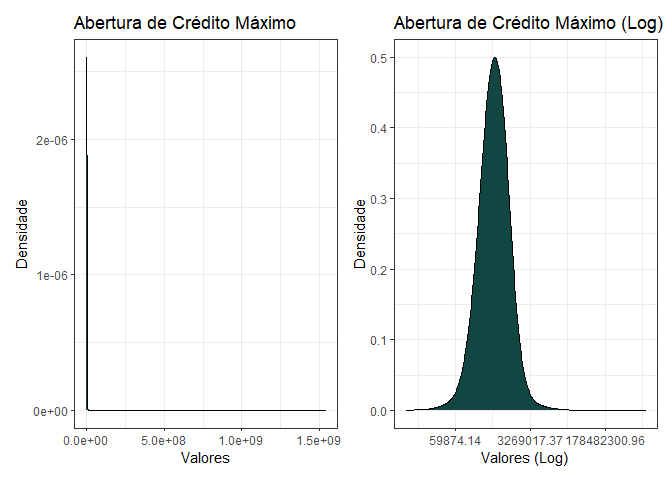
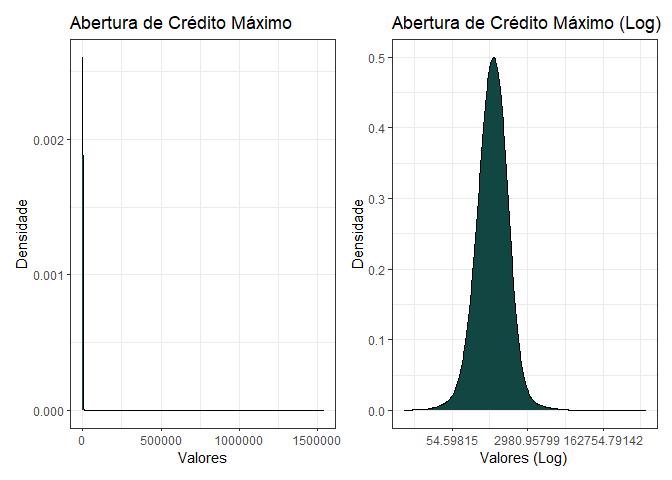
credito

diff --git a/README.html b/README.html
@@ -190,7 +190,8 @@ pre code {
 library(tidyverse)
 library(questionr)
 library(knitr)
-library(patchwork)</code></pre>
+library(patchwork)
+library(plotly)</code></pre>
 </div>
 <div id="estabelecendo-conexão-com-o-banco-de-dados-sql-server-2017-para-extraçãoleitura-dos-dados." class="section level5">
 <h5>Estabelecendo conexão com o banco de dados SQL Server 2017, para extração/leitura dos dados.</h5>
@@ -312,8 +313,8 @@ freq.na(df_bank_train)
 <div id="obs.-bankruptcies-falência" class="section level6">
 <h6>204 obs. bankruptcies (falência)</h6>
 </div>
-<div id="obs.-tax_liens-linhas-de-impostos" class="section level6">
-<h6>10 obs. tax_liens (linhas de impostos)</h6>
+<div id="obs.-tax_liens-registro-de-automóveis" class="section level6">
+<h6>10 obs. tax_liens (registro de automóveis)</h6>
 </div>
 <div id="obs.-maximum_open_credit-abertura-máxima-de-crédito" class="section level6">
 <h6>2 obs. maximum_open_credit (abertura máxima de crédito)</h6>
@@ -376,7 +377,65 @@ freq.na(df_bank_train)
 </div>
 <div id="o-gráfico-abaixo-mostra-a-curva-de-densidade-da-váriavel-e-de-um-possível-ajuste-dos-dados." class="section level5">
 <h5>O gráfico abaixo mostra a curva de densidade da váriavel e de um possível ajuste dos dados.</h5>
[2 lines of base64/hex data omitted]
+<pre class="r"><code>  df_bank_train$maximum_open_credit &lt;- df_bank_train$maximum_open_credit %&gt;% 
+  coalesce(median(df_bank_train$maximum_open_credit, na.rm = TRUE))</code></pre>
+</div>
+<div id="obs.-tax_liens-registro-de-automóveis-1" class="section level5">
+<h5>10 obs. tax_liens (registro de automóveis)</h5>
+<div id="a-distribuição-da-variável-com-relação-a-variável-resposta-nos-níveis-da-tax_liens-não-sofre-tanta-alteração-e-o-número-de-observações-é-baixo.-as-observações-faltantes-estão-todas-no-grupo-fully-paid." class="section level6">
+<h6>A distribuição da variável com relação a variável resposta nos níveis da tax_liens não sofre tanta alteração e o número de observações é baixo. As observações faltantes estão todas no grupo ‘Fully Paid’.</h6>
+</div>
+<div id="optei-por-substituir-as-variáveis-faltantes-pelo-maior-grupo-da-tax_liens-0." class="section level6">
+<h6>Optei por substituir as variáveis faltantes pelo maior grupo da ‘tax_liens’ 0.</h6>
+<pre class="r"><code>df_bank_train %&gt;%
+  group_by(tax_liens, loan_status) %&gt;%
+  summarise(qnt = n()) %&gt;%
+  complete(tax_liens, fill = list(n = 0)) %&gt;%
+  group_by(tax_liens) %&gt;%
+  mutate(freq = paste(round(qnt / sum(qnt),4)*100,&#39;%&#39;))
+#&gt; `summarise()` has grouped output by &#39;tax_liens&#39;. You can override using the `.groups` argument.
+#&gt; # A tibble: 22 x 4
+#&gt; # Groups:   tax_liens [13]
+#&gt;    tax_liens loan_status   qnt freq   
+#&gt;        &lt;dbl&gt; &lt;chr&gt;       &lt;int&gt; &lt;chr&gt;  
+#&gt;  1         0 Charged Off 22150 22.59 %
+#&gt;  2         0 Fully Paid  75912 77.41 %
+#&gt;  3         1 Charged Off   330 24.57 %
+#&gt;  4         1 Fully Paid   1013 75.43 %
+#&gt;  5         2 Charged Off    90 24.06 %
+#&gt;  6         2 Fully Paid    284 75.94 %
+#&gt;  7         3 Charged Off    36 32.43 %
+#&gt;  8         3 Fully Paid     75 67.57 %
+#&gt;  9         4 Charged Off    21 36.21 %
+#&gt; 10         4 Fully Paid     37 63.79 %
+#&gt; # ... with 12 more rows
+
+
+df_bank_train$tax_liens &lt;- df_bank_train$tax_liens %&gt;% 
+  coalesce(0)</code></pre>
+</div>
+</div>
+<div id="credit_score-score-de-crédito-1" class="section level5">
+<h5>19% credit_score (score de crédito)</h5>
+</div>
+<div id="annual_income-renda-anual-1" class="section level5">
+<h5>19% annual_income (renda anual)</h5>
+<div id="as-variáveis-que-estão-faltando-em-score-de-crédito-também-estão-faltando-na-coluna-de-renda-anual." class="section level6">
+<h6>As variáveis que estão faltando em score de crédito também estão faltando na coluna de renda anual.</h6>
+<pre class="r"><code>df_bank_train %&gt;% 
+  filter(is.na(credit_score)) %&gt;% 
+  select(credit_score, annual_income) %&gt;% 
+  drop_na(credit_score, annual_income)
+#&gt; [1] credit_score  annual_income
+#&gt; &lt;0 linhas&gt; (ou row.names de comprimento 0)</code></pre>
+</div>
+</div>
+<div id="inspecionando-a-variável-score-de-crédito" class="section level5">
+<h5>Inspecionando a variável (score de crédito)</h5>
+<pre class="r"><code>g2
+#&gt; Warning: Removed 19154 rows containing non-finite values (stat_boxplot).</code></pre>
[1 lines of base64/hex data omitted]
 </div>
 </div>
 </div>

diff --git a/README.md b/README.md
@@ -24,6 +24,7 @@ library(tidyverse)
 library(questionr)
 library(knitr)
 library(patchwork)
+library(plotly)
 ```
 
 ##### Estabelecendo conexão com o banco de dados SQL Server 2017, para extração/leitura dos dados.
@@ -150,7 +151,7 @@ freq.na(df_bank_train)
 
 ###### 204 obs. bankruptcies (falência)
 
-###### 10 obs. tax\_liens (linhas de impostos)
+###### 10 obs. tax\_liens (registro de automóveis)
 
 ###### 2 obs. maximum\_open\_credit (abertura máxima de crédito)
 
@@ -211,4 +212,68 @@ freq.na(df_bank_train)
 
 ##### O gráfico abaixo mostra a curva de densidade da váriavel e de um possível ajuste dos dados.
 
-![](README_files/figure-gfm/unnamed-chunk-15-1.png)<!-- -->
+<img src="README_files/figure-gfm/unnamed-chunk-15-1.png" width="800" />
+
+``` r
+  df_bank_train$maximum_open_credit <- df_bank_train$maximum_open_credit %>% 
+  coalesce(median(df_bank_train$maximum_open_credit, na.rm = TRUE))
+```
+
+##### 10 obs. tax\_liens (registro de automóveis)
+
+###### A distribuição da variável com relação a variável resposta nos níveis da tax\_liens não sofre tanta alteração e o número de observações é baixo. As observações faltantes estão todas no grupo ‘Fully Paid’.
+
+###### Optei por substituir as variáveis faltantes pelo maior grupo da ‘tax\_liens’ 0.
+
+``` r
+df_bank_train %>%
+  group_by(tax_liens, loan_status) %>%
+  summarise(qnt = n()) %>%
+  complete(tax_liens, fill = list(n = 0)) %>%
+  group_by(tax_liens) %>%
+  mutate(freq = paste(round(qnt / sum(qnt),4)*100,'%'))
+#> `summarise()` has grouped output by 'tax_liens'. You can override using the `.groups` argument.
+#> # A tibble: 22 x 4
+#> # Groups:   tax_liens [13]
+#>    tax_liens loan_status   qnt freq   
+#>        <dbl> <chr>       <int> <chr>  
+#>  1         0 Charged Off 22150 22.59 %
+#>  2         0 Fully Paid  75912 77.41 %
+#>  3         1 Charged Off   330 24.57 %
+#>  4         1 Fully Paid   1013 75.43 %
+#>  5         2 Charged Off    90 24.06 %
+#>  6         2 Fully Paid    284 75.94 %
+#>  7         3 Charged Off    36 32.43 %
+#>  8         3 Fully Paid     75 67.57 %
+#>  9         4 Charged Off    21 36.21 %
+#> 10         4 Fully Paid     37 63.79 %
+#> # ... with 12 more rows
+
+
+df_bank_train$tax_liens <- df_bank_train$tax_liens %>% 
+  coalesce(0)
+```
+
+##### 19% credit\_score (score de crédito)
+
+##### 19% annual\_income (renda anual)
+
+###### As variáveis que estão faltando em score de crédito também estão faltando na coluna de renda anual.
+
+``` r
+df_bank_train %>% 
+  filter(is.na(credit_score)) %>% 
+  select(credit_score, annual_income) %>% 
+  drop_na(credit_score, annual_income)
+#> [1] credit_score  annual_income
+#> <0 linhas> (ou row.names de comprimento 0)
+```
+
+##### Inspecionando a variável (score de crédito)
+
+``` r
+g2
+#> Warning: Removed 19154 rows containing non-finite values (stat_boxplot).
+```
+
+<img src="README_files/figure-gfm/unnamed-chunk-20-1.png" width="800" />
